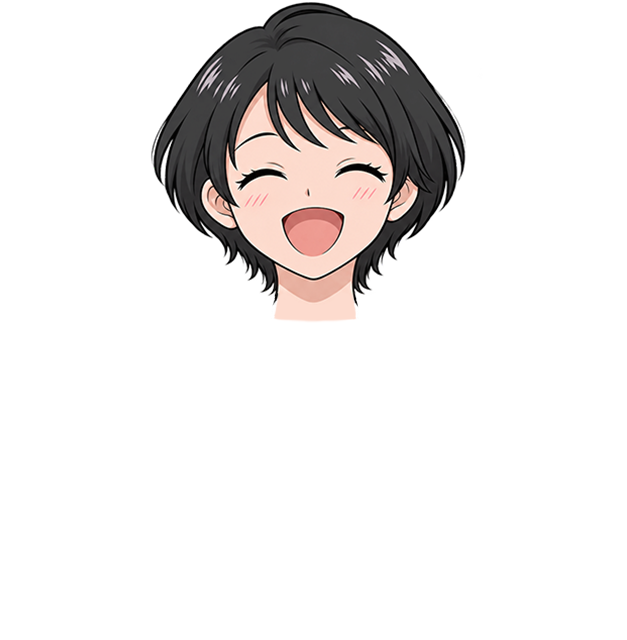
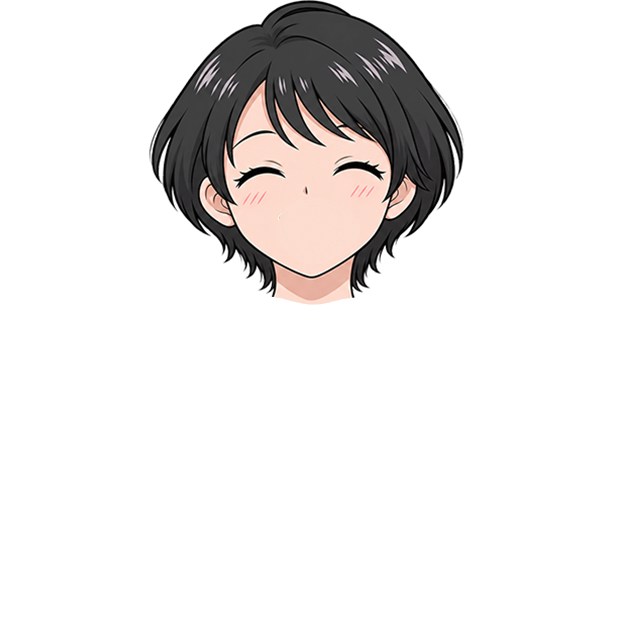
Add files via upload

diff --git a/static/app.js b/static/app.js
@@ -6,13 +6,13 @@
 async function ensureCurrentServiceWorker(){
   if(!("serviceWorker" in navigator))return;
   try{
-    const reg=await navigator.serviceWorker.register("./sw.js?v=11.4.1",{scope:"./",updateViaCache:"none"});
+    const reg=await navigator.serviceWorker.register("./sw.js?v=11.4.4",{scope:"./",updateViaCache:"none"});
     await reg.update();
   }catch(err){console.warn("NanaChat SW update failed",err);}
 }
 ensureCurrentServiceWorker();
 
-// NanaChat Step 1.41: verified service-worker update + keyboard containment.
+// NanaChat Step 1.44: five-frame layered laugh mouth set.
 // The entire app canvas follows the actual visual viewport while the keyboard
 // is open. This prevents iOS from creating a tall scrollable page or pushing
 // controls beyond the visible app boundary.
@@ -115,18 +115,18 @@ const ANIMATION_ASSETS = {
     }
   },
   laughing: {
-    base: "./static/characters/nanako/states/laughing/base.png?v=step1_42_layered_laugh",
+    base: "./static/characters/nanako/states/laughing/base.png?v=step1_44_laugh5mouth",
     eyes: {
-      open: "./static/characters/nanako/states/laughing/base_head.png?v=step1_42_layered_laugh",
-      half: "./static/characters/nanako/states/laughing/base_head.png?v=step1_42_layered_laugh",
-      closed: "./static/characters/nanako/states/laughing/base_head.png?v=step1_42_layered_laugh"
+      open: "./static/characters/nanako/states/laughing/base_head.png?v=step1_44_laugh5mouth",
+      half: "./static/characters/nanako/states/laughing/base_head.png?v=step1_44_laugh5mouth",
+      closed: "./static/characters/nanako/states/laughing/base_head.png?v=step1_44_laugh5mouth"
     },
     mouth: {
-      closed: "./static/characters/nanako/states/laughing/mouth/small.png?v=step1_42_layered_laugh",
-      small: "./static/characters/nanako/states/laughing/mouth/small.png?v=step1_42_layered_laugh",
-      medium: "./static/characters/nanako/states/laughing/mouth/round.png?v=step1_42_layered_laugh",
-      wide: "./static/characters/nanako/states/laughing/mouth/large.png?v=step1_42_layered_laugh",
-      round: "./static/characters/nanako/states/laughing/mouth/round.png?v=step1_42_layered_laugh"
+      closed: "./static/characters/nanako/states/laughing/mouth/closed.png?v=step1_44_laugh5mouth",
+      small: "./static/characters/nanako/states/laughing/mouth/small.png?v=step1_44_laugh5mouth",
+      medium: "./static/characters/nanako/states/laughing/mouth/medium.png?v=step1_44_laugh5mouth",
+      wide: "./static/characters/nanako/states/laughing/mouth/wide.png?v=step1_44_laugh5mouth",
+      round: "./static/characters/nanako/states/laughing/mouth/round.png?v=step1_44_laugh5mouth"
     }
   }
 };

diff --git a/index.html b/index.html
@@ -13,7 +13,7 @@
 <meta name="apple-mobile-web-app-title" content="NanaChat">
 <title>NanaChat</title>
 <link rel="manifest" href="./manifest.webmanifest">
-<link rel="stylesheet" href="./static/style.css?v=11.4.2">
+<link rel="stylesheet" href="./static/style.css?v=11.4.4">
 <link rel="preload" as="image" href="./static/characters/nanako/states/neutral/base.png">
 <style>
 .startup-splash{position:fixed;inset:0;z-index:500;display:grid;place-items:center;padding:24px;background:radial-gradient(circle at 50% 22%,rgba(109,52,136,.24),transparent 38%),linear-gradient(180deg,#15101d,#0b0910);}
@@ -83,7 +83,7 @@
 </div></div>
 <div class="settings-block"><div class="settings-row"><span>Conversation score</span><strong id="settingsScore">0 / 100</strong></div><div class="settings-progress"><div id="settingsScoreFill"></div></div></div>
 <div class="settings-block"><div class="settings-label">Voice debug</div><div id="debugMic">Mic: —</div><div id="debugRoom">Room: —</div><div id="debugSpeech">Speech: Waiting</div><div id="debugTurn">Turn: 0.0 sec</div></div>
-<div class="settings-block"><div class="settings-label">Build</div><div id="buildMarker">v11 Step 1.42 • SW-updated keyboard-safe layered laugh</div><div id="runtimeStatus">Python runtime: checking…</div></div>
+<div class="settings-block"><div class="settings-label">Build</div><div id="buildMarker">v11 Step 1.44 • layered laugh • 5 mouth frames</div><div id="runtimeStatus">Python runtime: checking…</div></div>
 <button id="resetButton" class="reset-button">Forget Everything &amp; Start Fresh</button>
 </section></div>
 
@@ -92,5 +92,5 @@
 <div id="historyEmpty" class="history-empty">No conversation yet.</div><div id="historyList" class="history-list"></div>
 </section></div>
 
-<script src="./static/app.js?v=11.4.2" defer></script>
+<script src="./static/app.js?v=11.4.4" defer></script>
 </body></html>

diff --git a/sw.js b/sw.js
@@ -1,4 +1,4 @@
-const BUILD="nanachat-11.4.2-network-only";
+const BUILD="nanachat-11.4.4-network-only";
 self.addEventListener("install",e=>self.skipWaiting());
 self.addEventListener("activate",e=>e.waitUntil((async()=>{for(const k of await caches.keys())await caches.delete(k);await self.clients.claim();})()));
 self.addEventListener("fetch",e=>{if(e.request.method!=="GET")return;e.respondWith(fetch(e.request,{cache:"no-store"}));});
